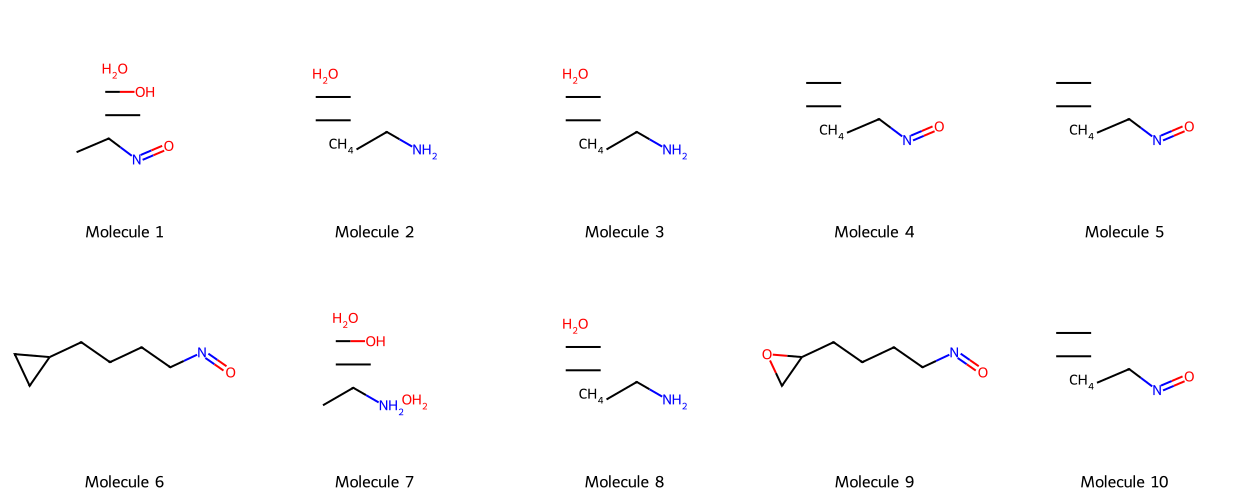
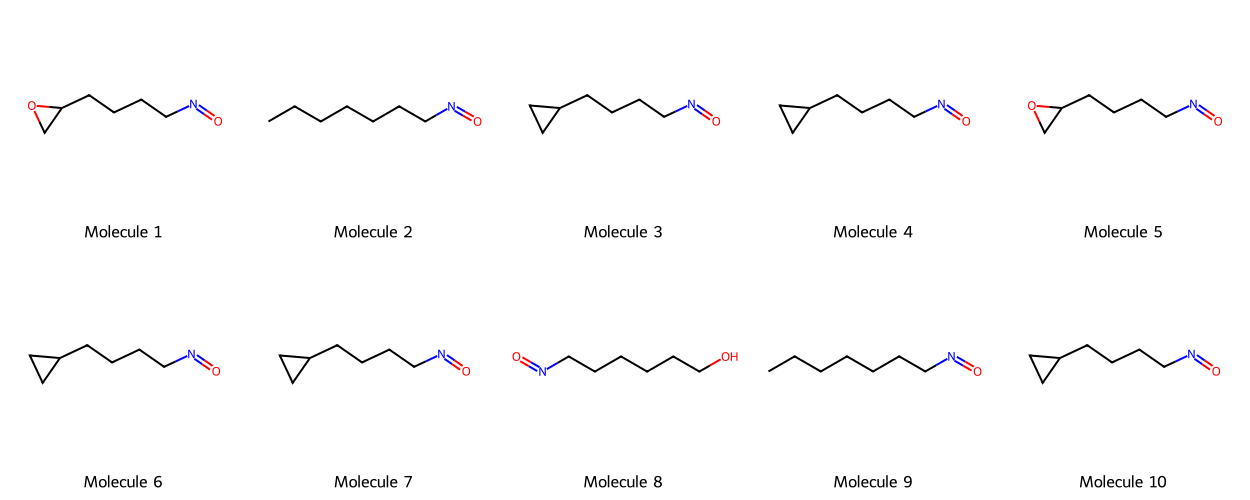
done with pure rl

diff --git a/test.py b/test.py
@@ -3,13 +3,10 @@ from rdkit import Chem
 from rdkit.Chem import Draw
 import os
 
-# Assuming these are your custom utility files
 from models import Generator
 from tools import postprocess, sample_z, get_gen_mols
 
-# --- 1. Model Setup and Loading ---
 print("Loading the generator model...")
-# Use torch.device("cuda" if torch.cuda.is_available() else "cpu") for GPU support
 device = torch.device("cpu") 
 state_dict = torch.load('Generator.pth', map_location=device, weights_only=True)
 
@@ -19,55 +16,47 @@ model.to(device)
 model.eval()
 print("Model loaded successfully.")
 
-# --- 2. Molecule Generation ---
 valid_mols = []
 total_generated = 0
 target_count = 10
-batch_size = 32 # You can adjust this based on your system's memory
+batch_size = 32
+
 
 print(f"Starting molecule generation to find {target_count} valid molecules...")
-with torch.no_grad(): # Disable gradient calculations for inference
+with torch.no_grad():
     while len(valid_mols) < target_count:
-        # Sample a batch from the latent space
-        z = sample_z(8)
+        z = sample_z(batch_size)
         z = torch.from_numpy(z).float()
         
-        # Generate molecules from the model
         raw_edges, raw_nodes = model(z)
-        
-        # Process the raw output to get RDKit molecule objects
         generated_mols_batch = get_gen_mols(raw_nodes, raw_edges)
         total_generated += len(generated_mols_batch)
         
-        # Filter for valid molecules
         for mol in generated_mols_batch:
             if mol is not None and Chem.MolToSmiles(mol) is not None:
-                if len(valid_mols) < target_count:
-                    valid_mols.append(mol)
-                else:
-                    break # Stop adding once the target is reached
+                if len(Chem.GetMolFrags(mol)) == 1: 
+                    if len(valid_mols) < target_count:
+                        valid_mols.append(mol)
+                    else:
+                        break 
         
         if len(valid_mols) >= target_count:
             break
 
-        # Progress update
         print(f"\rCollected {len(valid_mols)} / {target_count} valid molecules... (Total processed: {total_generated})", end="")
 
-print(f"\nGeneration complete. Found {len(valid_mols)} valid molecules.")
 
-# --- 3. Save All Molecules to a Single Grid Image ---
+
 if valid_mols:
     print("Generating grid image of all molecules...")
     
-    # Create a grid image from the list of molecule objects 🖼
     grid_img = Draw.MolsToGridImage(
         valid_mols, 
-        molsPerRow=5,         # Arrange molecules in rows of 5
-        subImgSize=(250, 250), # Set the size for each molecule's image
-        legends=[f'Molecule {i+1}' for i in range(len(valid_mols))] # Add a label to each
+        molsPerRow=5,        
+        subImgSize=(250, 250), 
+        legends=[f'Molecule {i+1} ' for i in range(len(valid_mols))] 
     )
     
-    # Save the generated grid image to a PNG file
     output_filename = 'generated_molecules_grid.png'
     grid_img.save(output_filename)
     
